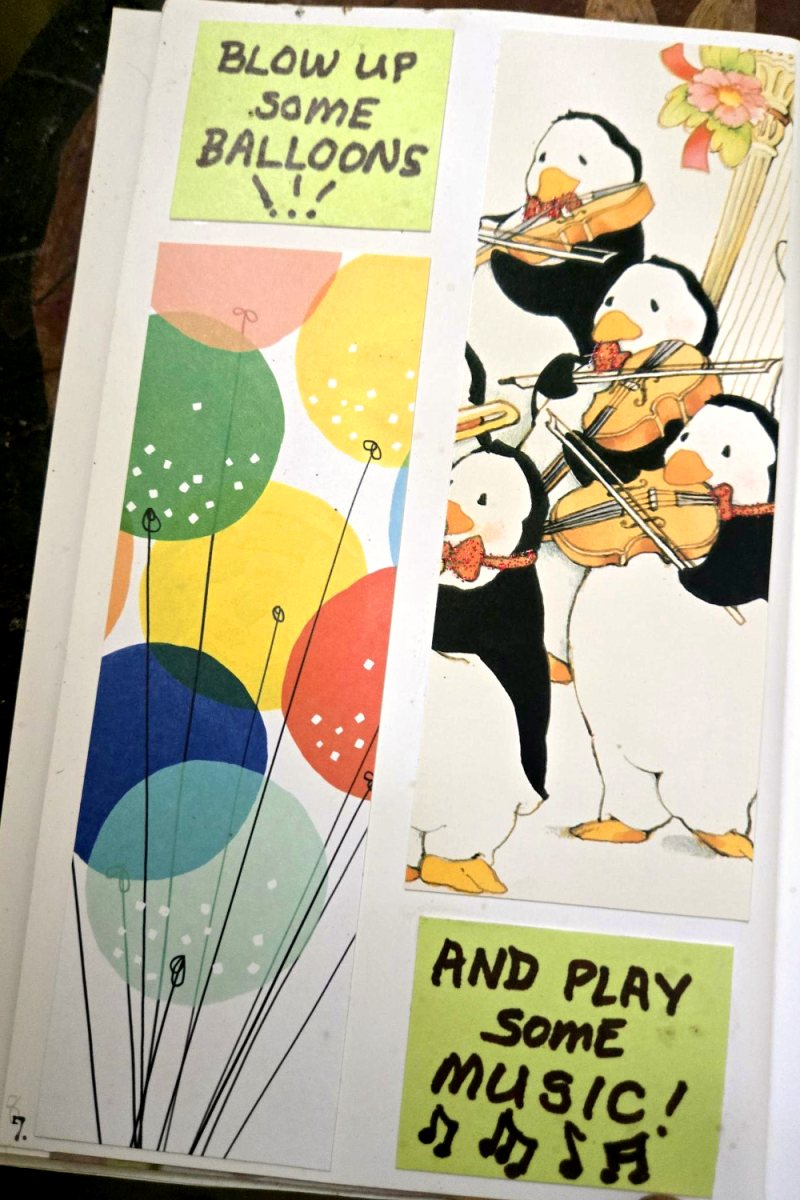
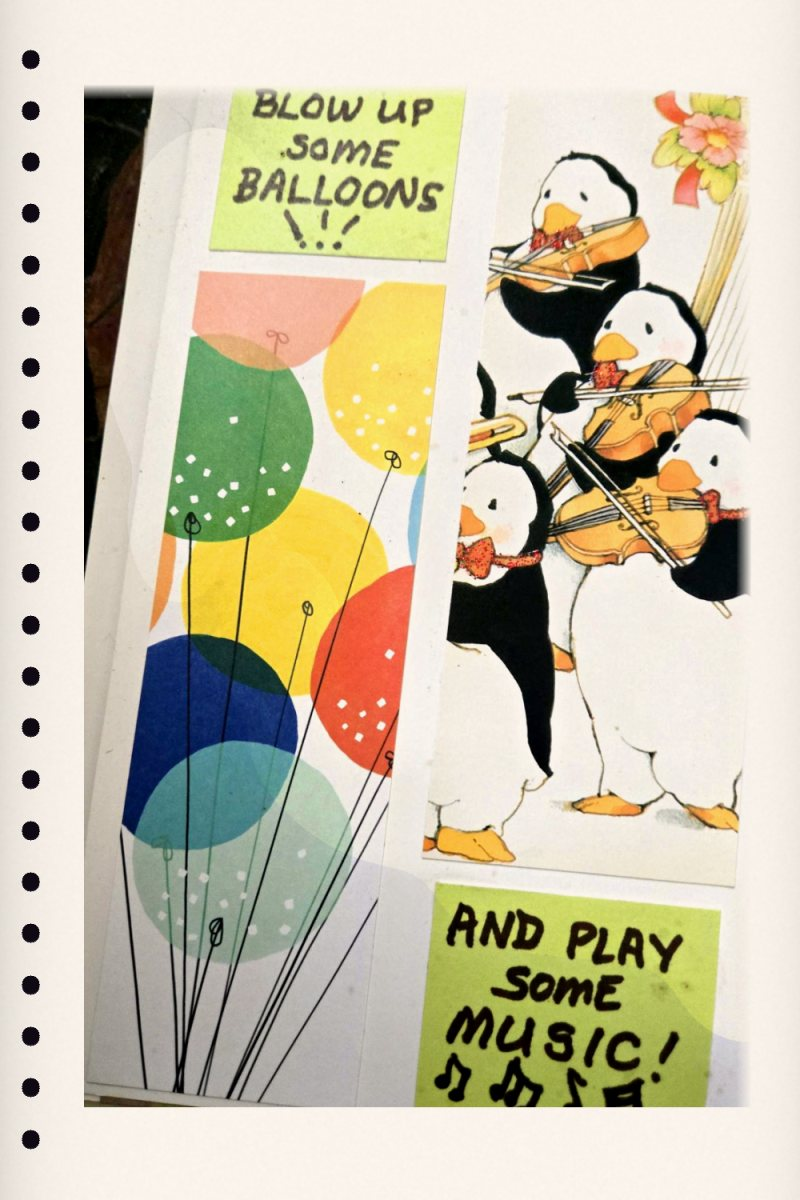
Diary: uniform spiral-bound pages with coil
Pages re-cropped, paper cleaned and colour graded onto matching cream sheets
with punched holes; metal coil drawn over the spine.

Claude-Session: https://claude.ai/code/session_01NgBSwearBk81F4CEJ7abvq

diff --git a/index.html b/index.html
@@ -193,7 +193,18 @@ button{font:inherit;color:inherit;cursor:pointer;border:0;background:none}
 .leaf.flipped{transform: rotateY(-180deg)}
 .face{position:absolute; inset:0; backface-visibility:hidden; -webkit-backface-visibility:hidden; overflow:hidden; border-radius:2px 6px 6px 2px; background:#f4eee2}
 .face img{width:100%; height:100%; object-fit:cover; display:block; pointer-events:none}
-.front::after{content:""; position:absolute; inset:0; pointer-events:none; background: linear-gradient(90deg, rgba(0,0,0,.28) 0, rgba(0,0,0,.08) 4%, transparent 9%)}
+.front::after{content:""; position:absolute; inset:0; pointer-events:none; background: linear-gradient(90deg, rgba(0,0,0,.14) 0, transparent 7%)}
+/* spiral coil — rings sit over the punched holes baked into each page (x 3.8%, y 5%→95%) */
+.coil{position:absolute; left:0; top:0; height:100%; width:0; z-index:500; transform: translateZ(2px); pointer-events:none}
+.ring{
+  position:absolute; left:-15px; width:calc(15px + var(--w) * .052); height:13px; margin-top:-6.5px;
+  border-radius:50%; border:3.5px solid transparent;
+  background: linear-gradient(#0000,#0000) padding-box,
+              linear-gradient(180deg,#fdfdfd 0%,#b9bcc4 35%,#5d6068 60%,#c9ccd3 85%,#7b7e86 100%) border-box;
+  transform: rotate(-14deg);
+  box-shadow: 1px 2px 2px rgba(0,0,0,.35);
+  -webkit-mask: linear-gradient(#000 0 0) border-box, linear-gradient(#000 0 0) padding-box; -webkit-mask-composite: xor; mask-composite: exclude;
+}
 .back{transform: rotateY(180deg); background: linear-gradient(270deg, rgba(0,0,0,.25) 0, transparent 8%), radial-gradient(circle at 30% 20%, #fbf7ee, #ece2cf)}
 .leaf.turning .front::before, .leaf.turning .back::before{
   content:""; position:absolute; inset:0; z-index:2; pointer-events:none;
@@ -328,7 +339,7 @@ button{font:inherit;color:inherit;cursor:pointer;border:0;background:none}
 <section class="scene night grain" id="s-diary">
   <div class="d-head">made by hand, for me</div>
   <div class="d-sub" id="dSub">tap or swipe to turn the page</div>
-  <div class="stage" id="stage"><div class="book" id="book"><div class="board"></div><div class="block" id="block"></div></div></div>
+  <div class="stage" id="stage"><div class="book" id="book"><div class="board"></div><div class="block" id="block"></div><div class="coil" id="coil"></div></div></div>
   <div class="d-bar">
     <button class="nav" id="prev" aria-label="Previous page">‹</button>
     <div class="d-count" id="count"></div>
@@ -442,6 +453,7 @@ button{font:inherit;color:inherit;cursor:pointer;border:0;background:none}
       book.appendChild(leaf); leaves.push(leaf);
     }
   }
+  (function(){ const c = $('#coil'); for (let k = 0; k < 22; k++) { const r = document.createElement('i'); r.className = 'ring'; r.style.top = (5 + k * 90 / 21) + '%'; c.appendChild(r); } })();
   function thick(){ block.style.setProperty('--thick', Math.max(2, (N - cur) * .9) + 'px'); }
   function layout(){
     leaves.forEach((l, i) => {

diff --git a/CLAUDE.md b/CLAUDE.md
@@ -6,7 +6,8 @@ Served by GitHub Pages from `main`. Public repo — no private guest details in 
 ## Flow
 1. Pink + fluorescent-green envelope (tap to open).
 2. Scratch card reveals PK with the gramophone (`pk.jpg`), title "Another year, another invite".
-3. The handmade diary flipbook (`img/p00.jpg`–`img/p18.jpg`, cover → back), 0.5 s page turns.
+3. The handmade diary as a spiral-bound notebook: uniform cream pages with punched holes
+   (`img/p00.jpg`–`img/p18.jpg`, cover → back) turning on a CSS coil, 0.5 s page turns.
 4. Fluorescent-green pages, pink handwriting: the message, then 17 Nov + PEOPLE logo (`people.jpg`),
    "With whole lotta love, PK", winking smiley that laughs with `laugh.m4a` / `laugh.mp3`.
 
